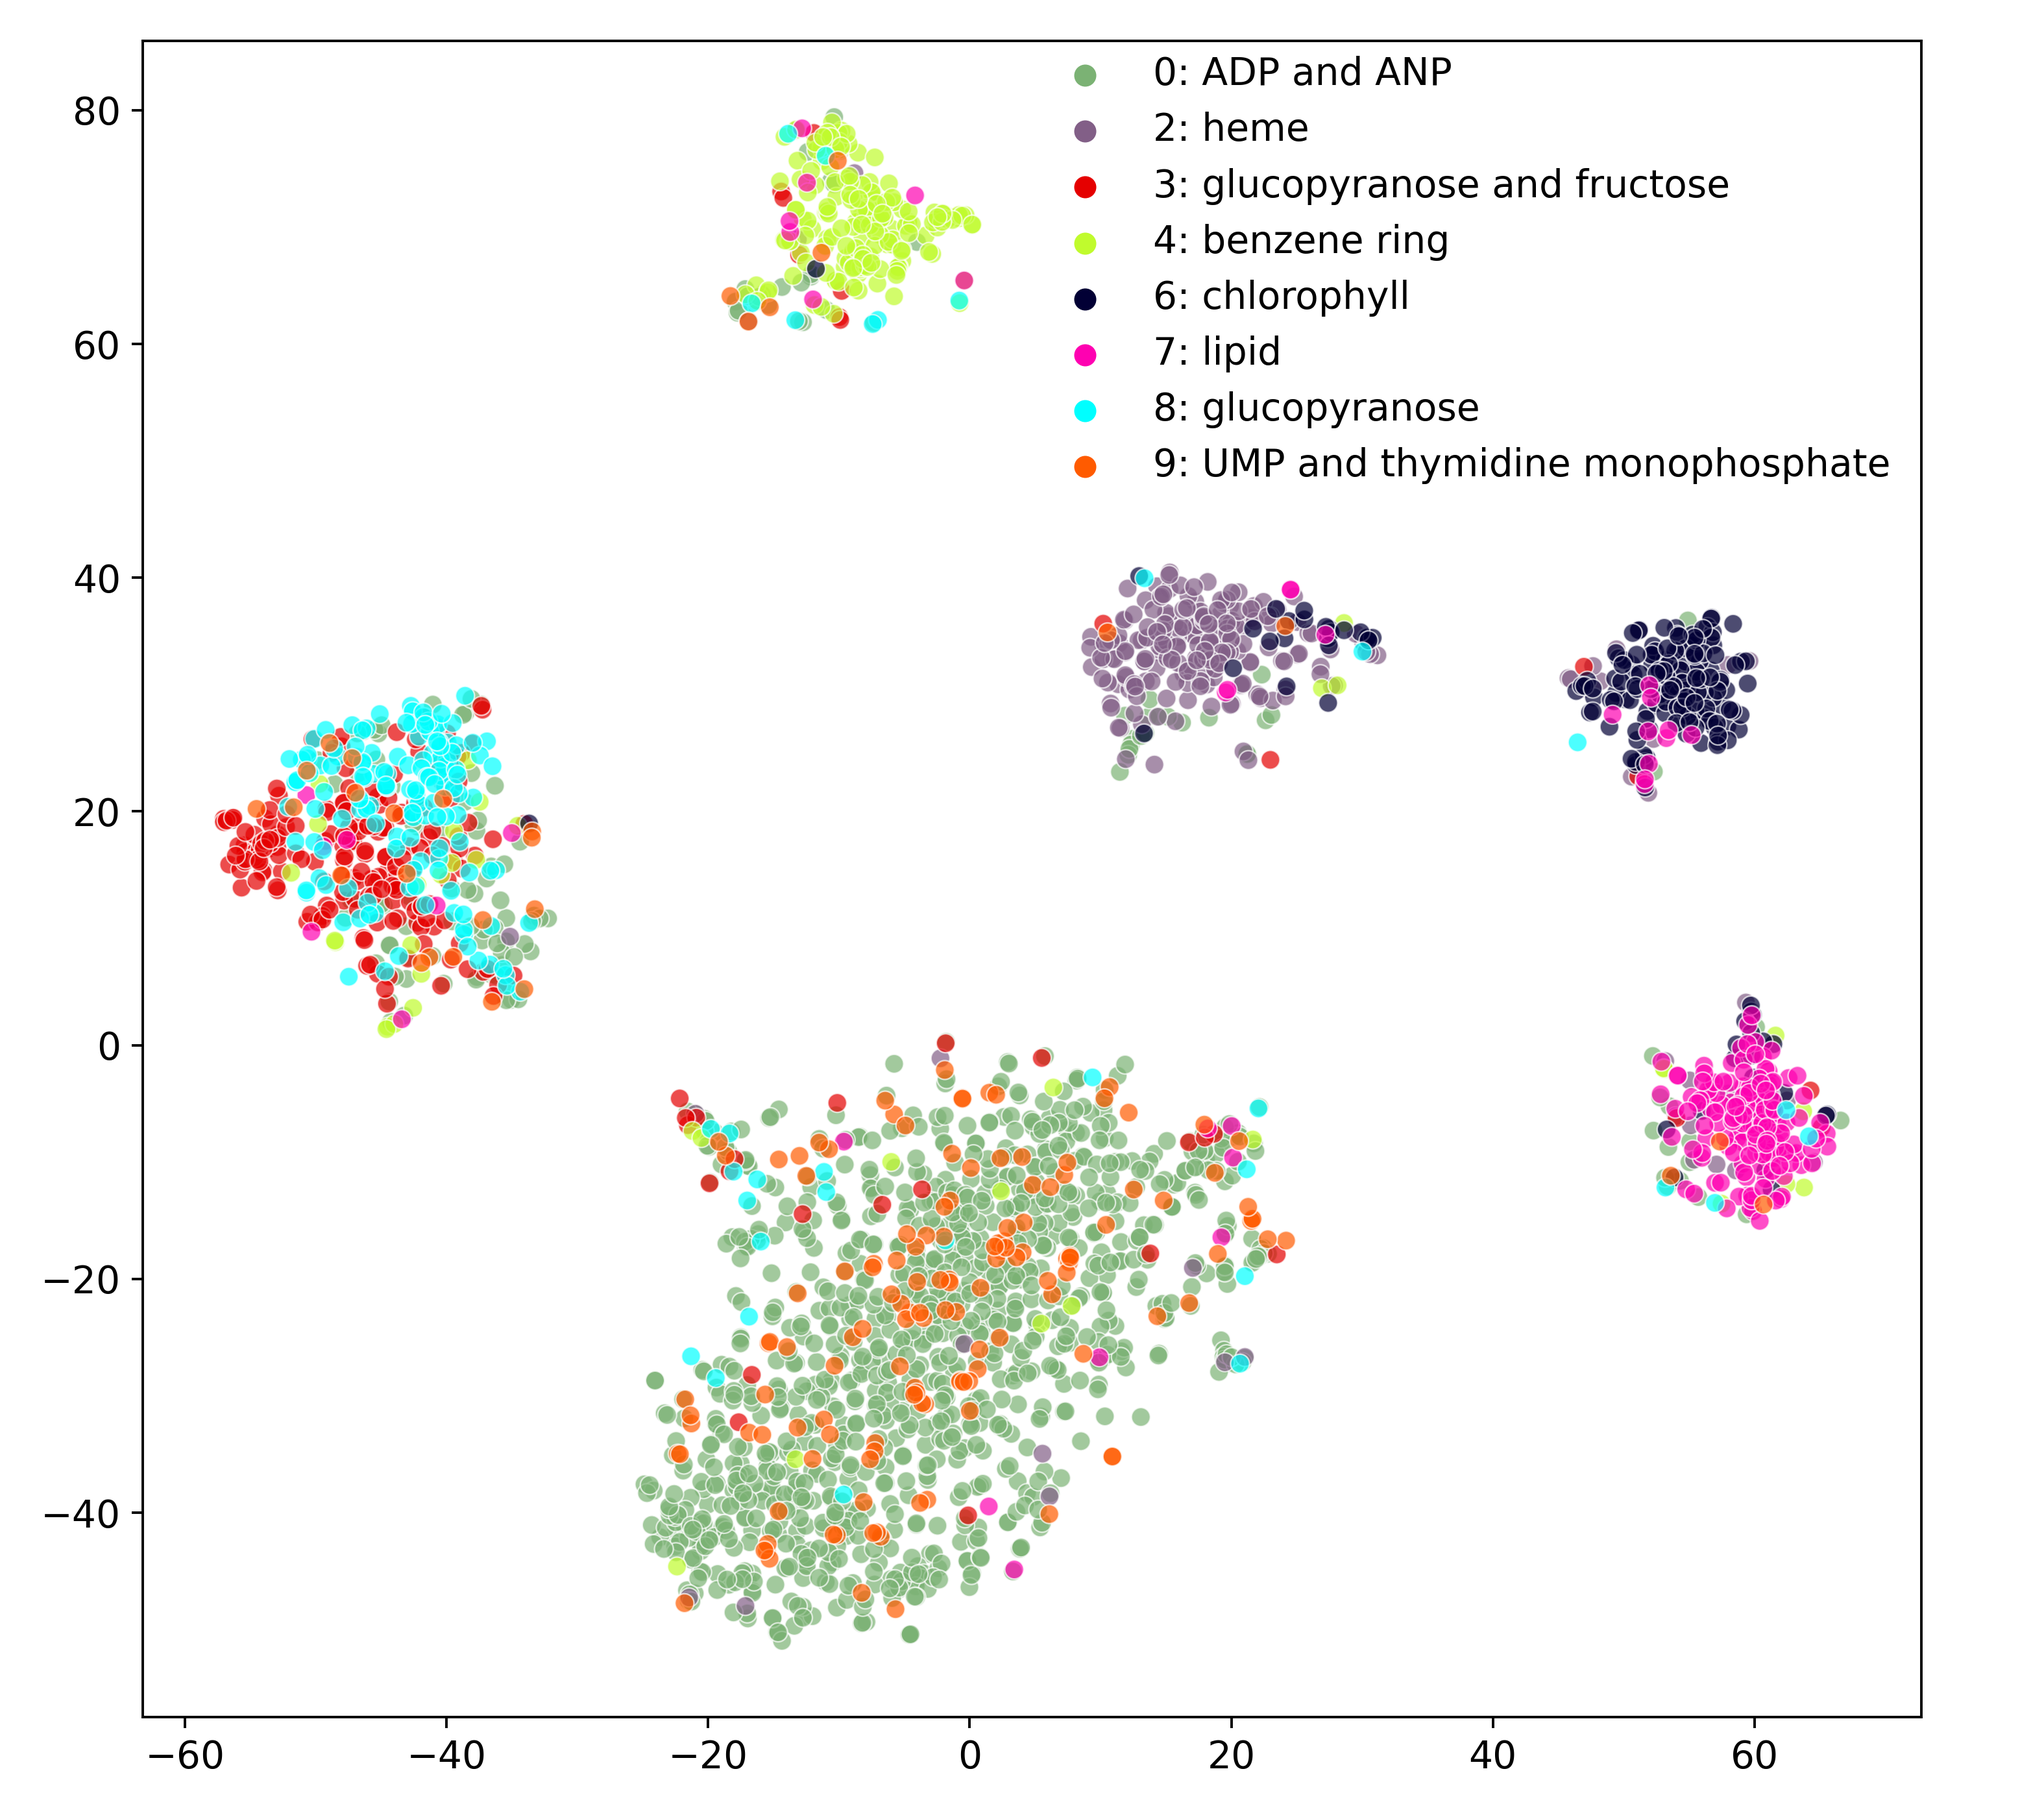
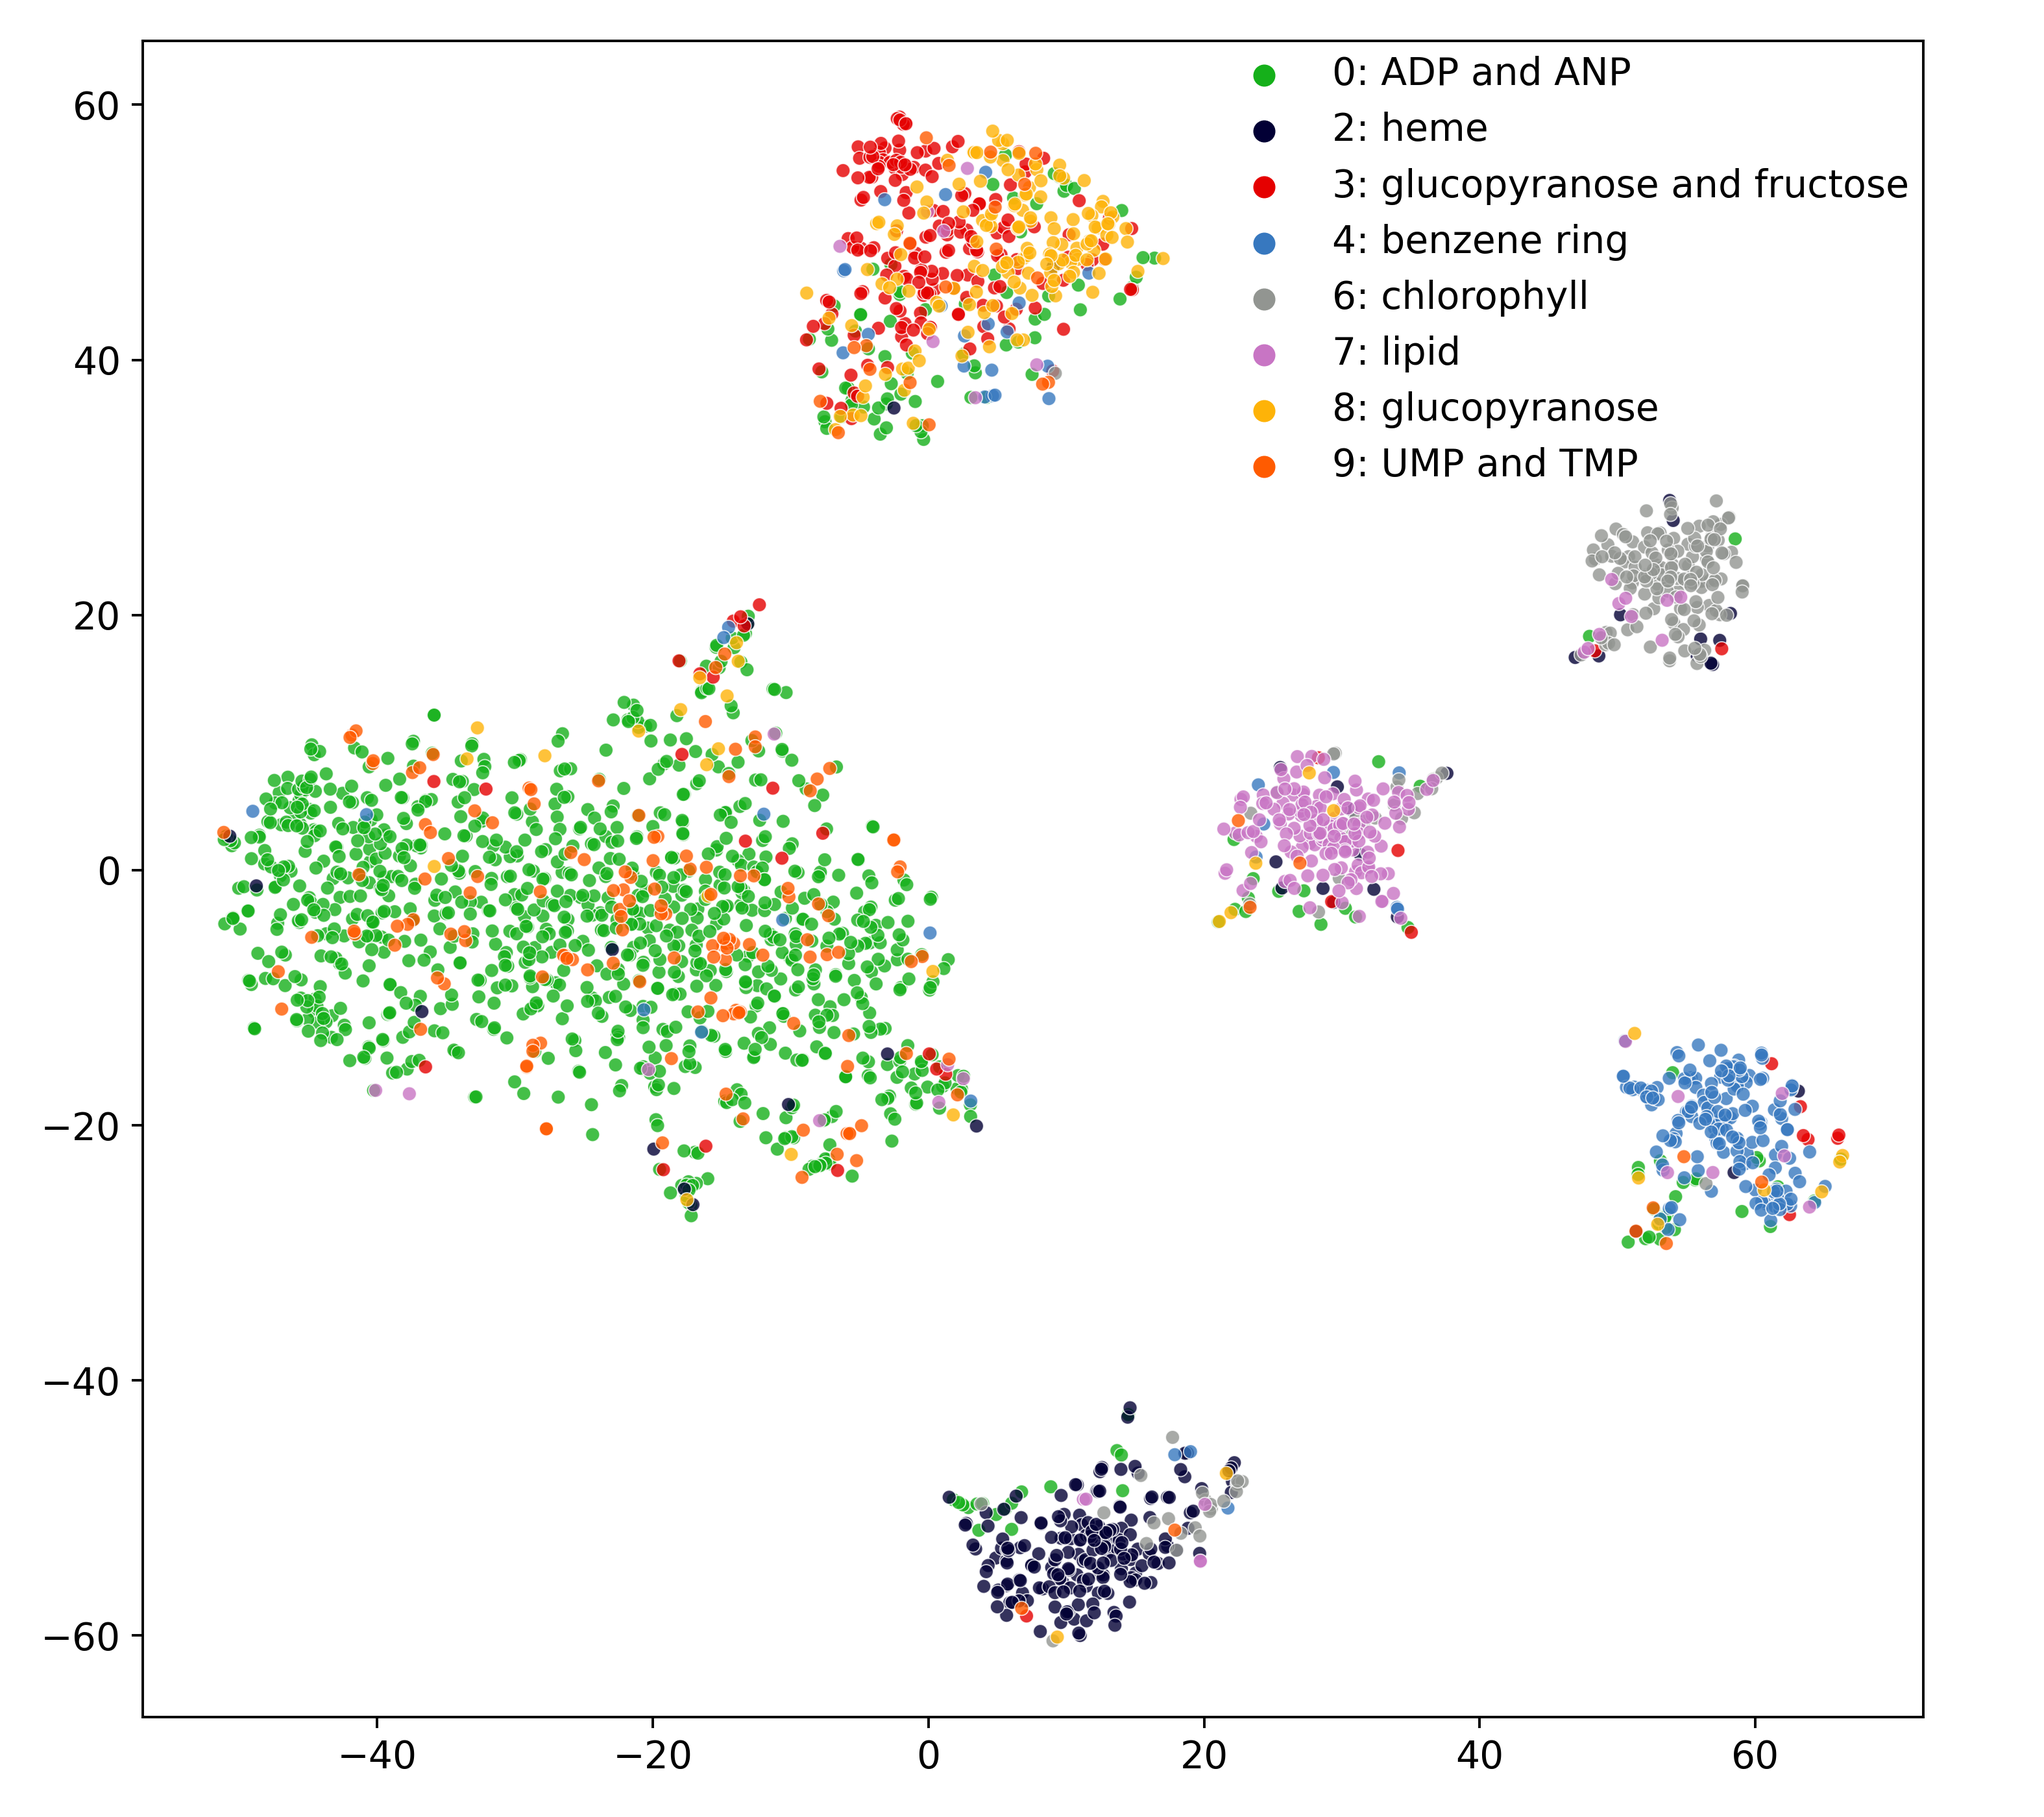
visualization of the embeddings

diff --git a/visualize_embeddings.py b/visualize_embeddings.py
@@ -63,11 +63,12 @@ def visualize_embeddings(embeddings, labels, cluster_ids, image_path, colors):
     ax = sns.scatterplot(x=embedding_list[:,0], 
                          y=embedding_list[:,1], 
                          hue=cluster_id_list, 
-                         alpha = 0.7,
+                         alpha = 0.8,
                          markers='.', 
+                         s=20,
                          palette= cust_palette
                          )
-    plt.legend(bbox_to_anchor=(0.5, 1), loc=2, borderaxespad=0., frameon=False)
+    plt.legend(bbox_to_anchor=(0.6, 1), loc=2, borderaxespad=0., frameon=False)
     plt.tight_layout()
     plt.savefig(image_path)
 
@@ -96,11 +97,11 @@ if __name__=="__main__":
                          6: '6: chlorophyll',
                          7: '7: lipid',
                          8: '8: glucopyranose',
-                         9: '9: UMP and thymidine monophosphate'}
+                         9: '9: UMP and TMP'}
     cluster_ids = [cluster_name_dict[x] for x in merge_info] # use original cluster ids
 
     # 8 colors
-    colors = ["faded green", "dusty purple", "red", "yellow green", "midnight blue", "bright pink", "cyan", "bright orange"]
+    colors = ["green", "midnight blue", "red", "windows blue", "grey", "orchid", "amber", "bright orange"]
     
     # 13 colors
     # colors = ["faded green", "dusty purple", "red", "cyan", "yellow green", "midnight blue", 
@@ -136,7 +137,7 @@ if __name__=="__main__":
         
         if which_algorithm == 'tsne':
             print('computing TSNE...')
-            tsne = TSNE(n_components=2, perplexity=40, learning_rate=200, n_iter=2000, random_state=6)
+            tsne = TSNE(n_components=2, perplexity=40, learning_rate=200, n_iter=1500, random_state=22479)
             vis_embedding = tsne.fit_transform(embeddings)
             print('KL divergence after optimizaton: ', tsne.kl_divergence_)
         elif which_algorithm == 'umap':
